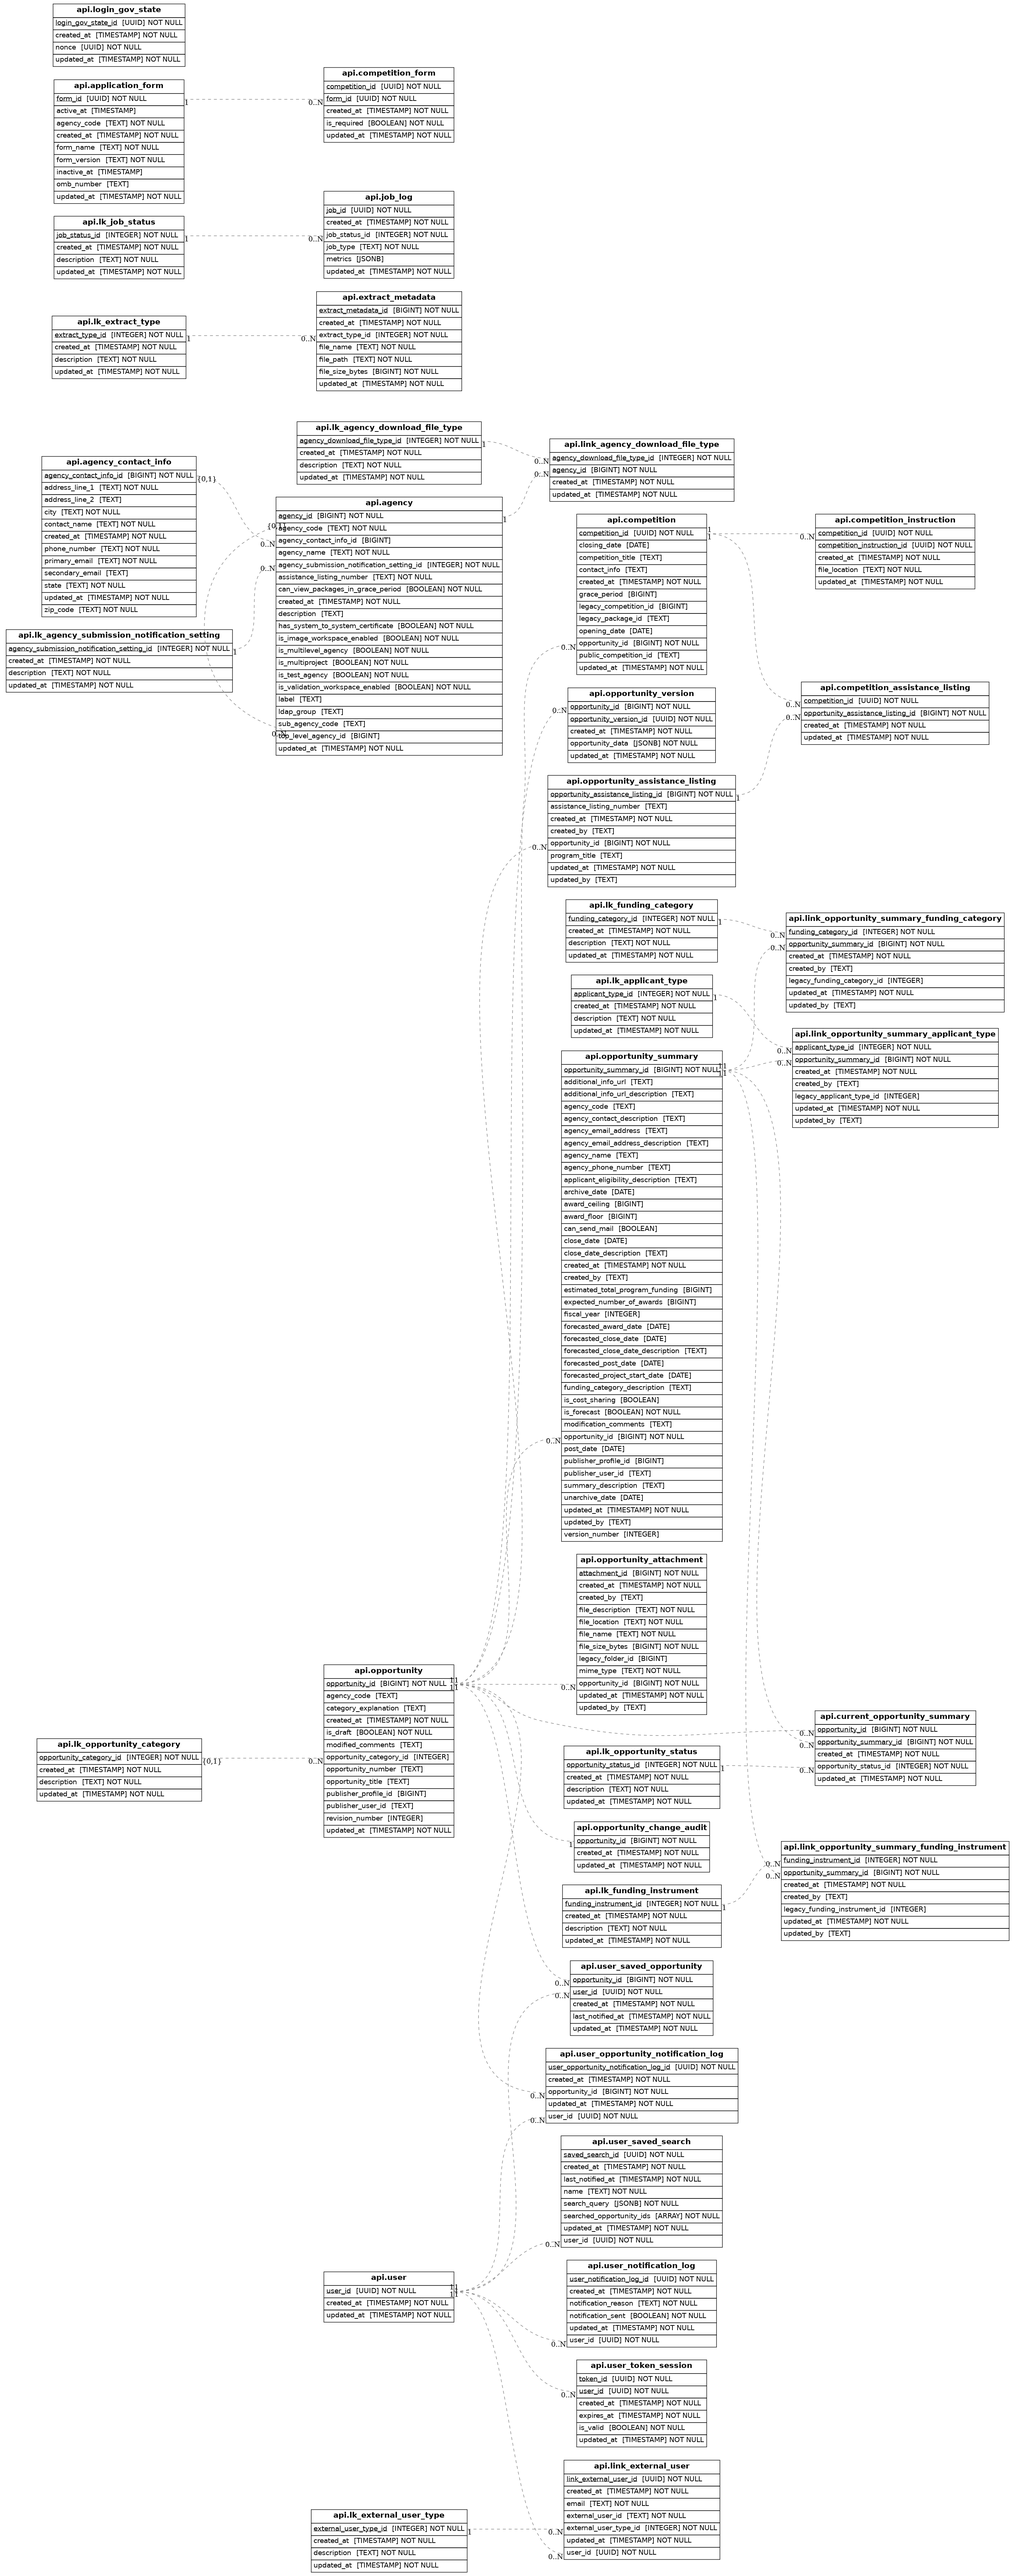
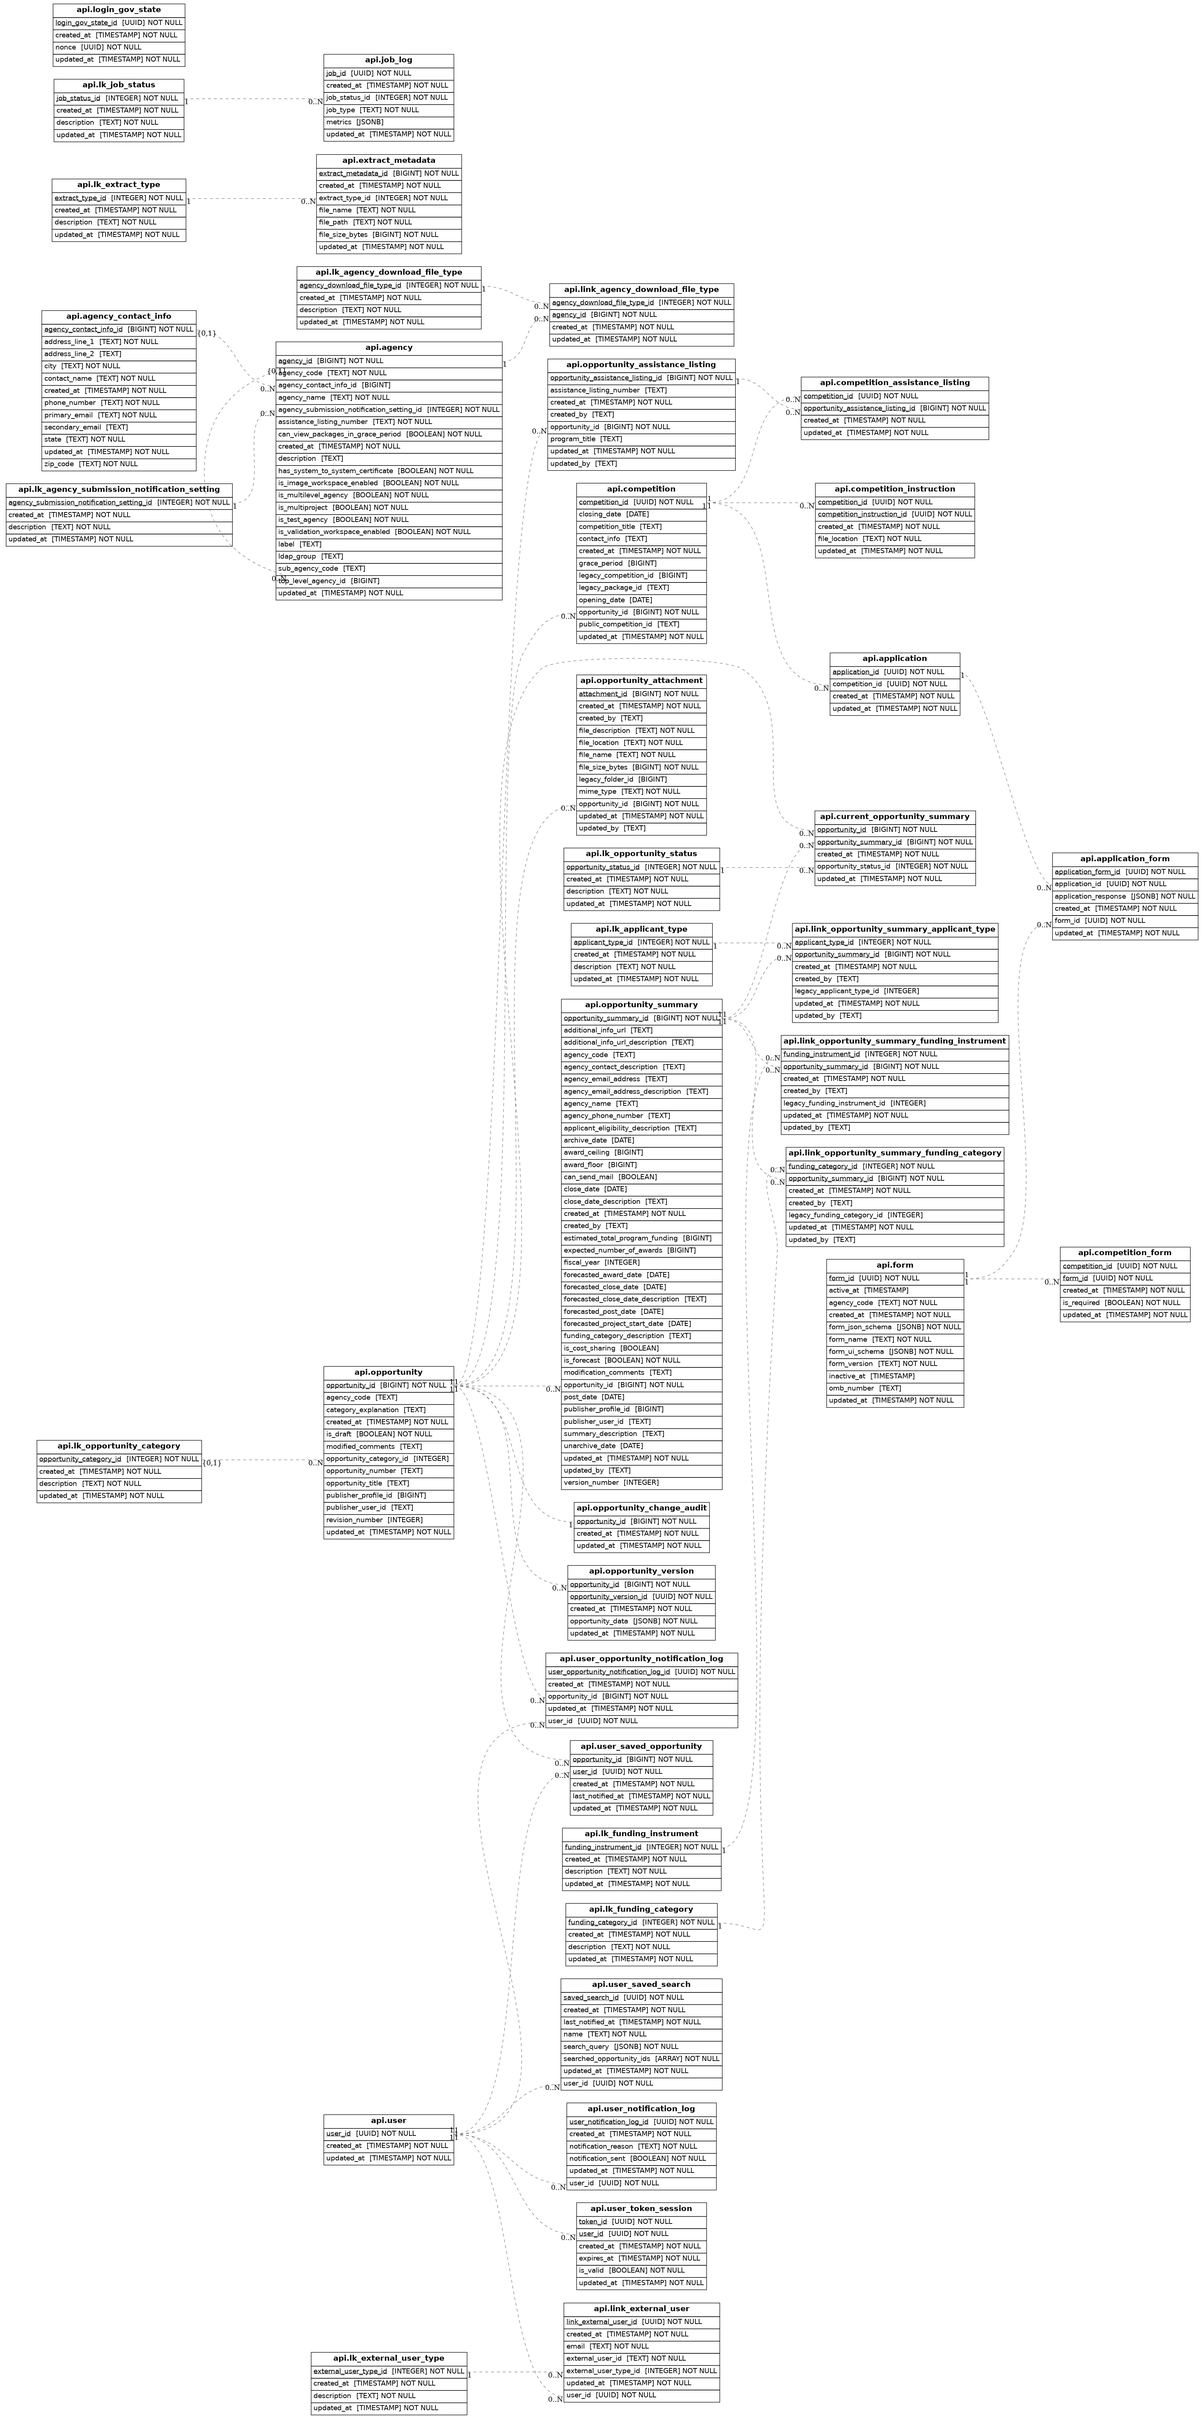
[Issue #4167] Setup rest of application tables (#4179)
## Summary
Fixes #4167

### Time to review: 10 mins

## Changes proposed
- Renamed ApplicationForm to Form and added JSON schema fields
- Created new Application table to represent a user/group applying to a
competition with a foreign key to the competition table
- Created new ApplicationForm table that links applications to forms and
stores responses, with foreign keys to both the Application and Form
tables

## Context for reviewers
We want to make changes to a few of the tables we setup + add a few new
tables to support the apply prototype epic

diff --git a/api/src/db/migrations/versions/2025_03_13_create_new_application_form_table.py b/api/src/db/migrations/versions/2025_03_13_create_new_application_form_table.py
@@ -1,0 +1,132 @@
+"""Create new application form table
+
+Revision ID: 919f7866b393
+Revises: 3793197bdd1b
+Create Date: 2025-03-13 15:58:20.688143
+
+"""
+
+import sqlalchemy as sa
+from alembic import op
+from sqlalchemy.dialects import postgresql
+
+# revision identifiers, used by Alembic.
+revision = "919f7866b393"
+down_revision = "3793197bdd1b"
+branch_labels = None
+depends_on = None
+
+
+def upgrade():
+    # ### commands auto generated by Alembic - please adjust! ###
+    op.create_table(
+        "form",
+        sa.Column("form_id", sa.UUID(), nullable=False),
+        sa.Column("form_name", sa.Text(), nullable=False),
+        sa.Column("form_version", sa.Text(), nullable=False),
+        sa.Column("agency_code", sa.Text(), nullable=False),
+        sa.Column("omb_number", sa.Text(), nullable=True),
+        sa.Column("active_at", sa.TIMESTAMP(timezone=True), nullable=True),
+        sa.Column("inactive_at", sa.TIMESTAMP(timezone=True), nullable=True),
+        sa.Column("form_json_schema", postgresql.JSONB(astext_type=sa.Text()), nullable=False),
+        sa.Column("form_ui_schema", postgresql.JSONB(astext_type=sa.Text()), nullable=False),
+        sa.Column(
+            "created_at",
+            sa.TIMESTAMP(timezone=True),
+            server_default=sa.text("now()"),
+            nullable=False,
+        ),
+        sa.Column(
+            "updated_at",
+            sa.TIMESTAMP(timezone=True),
+            server_default=sa.text("now()"),
+            nullable=False,
+        ),
+        sa.PrimaryKeyConstraint("form_id", name=op.f("form_pkey")),
+        schema="api",
+    )
+    op.create_table(
+        "application",
+        sa.Column("application_id", sa.UUID(), nullable=False),
+        sa.Column("competition_id", sa.UUID(), nullable=False),
+        sa.Column(
+            "created_at",
+            sa.TIMESTAMP(timezone=True),
+            server_default=sa.text("now()"),
+            nullable=False,
+        ),
+        sa.Column(
+            "updated_at",
+            sa.TIMESTAMP(timezone=True),
+            server_default=sa.text("now()"),
+            nullable=False,
+        ),
+        sa.ForeignKeyConstraint(
+            ["competition_id"],
+            ["api.competition.competition_id"],
+            name=op.f("application_competition_id_competition_fkey"),
+        ),
+        sa.PrimaryKeyConstraint("application_id", name=op.f("application_pkey")),
+        schema="api",
+    )
+    op.create_index(
+        op.f("application_competition_id_idx"),
+        "application",
+        ["competition_id"],
+        unique=False,
+        schema="api",
+    )
+    op.create_table(
+        "application_form",
+        sa.Column("application_form_id", sa.UUID(), nullable=False),
+        sa.Column("application_id", sa.UUID(), nullable=False),
+        sa.Column("form_id", sa.UUID(), nullable=False),
+        sa.Column("application_response", postgresql.JSONB(astext_type=sa.Text()), nullable=False),
+        sa.Column(
+            "created_at",
+            sa.TIMESTAMP(timezone=True),
+            server_default=sa.text("now()"),
+            nullable=False,
+        ),
+        sa.Column(
+            "updated_at",
+            sa.TIMESTAMP(timezone=True),
+            server_default=sa.text("now()"),
+            nullable=False,
+        ),
+        sa.ForeignKeyConstraint(
+            ["application_id"],
+            ["api.application.application_id"],
+            name=op.f("application_form_application_id_application_fkey"),
+        ),
+        sa.ForeignKeyConstraint(
+            ["form_id"], ["api.form.form_id"], name=op.f("application_form_form_id_form_fkey")
+        ),
+        sa.PrimaryKeyConstraint("application_form_id", name=op.f("application_form_pkey")),
+        schema="api",
+    )
+    op.create_foreign_key(
+        op.f("competition_form_form_id_form_fkey"),
+        "competition_form",
+        "form",
+        ["form_id"],
+        ["form_id"],
+        source_schema="api",
+        referent_schema="api",
+    )
+    # ### end Alembic commands ###
+
+
+def downgrade():
+    # ### commands auto generated by Alembic - please adjust! ###
+    op.drop_constraint(
+        op.f("competition_form_form_id_form_fkey"),
+        "competition_form",
+        schema="api",
+        type_="foreignkey",
+    )
+    op.drop_table("application_form", schema="api")
+    op.drop_index(op.f("application_competition_id_idx"), table_name="application", schema="api")
+    op.drop_table("application", schema="api")
+    op.drop_table("form", schema="api")
+    # ### end Alembic commands ###

diff --git a/api/src/db/models/competition_models.py b/api/src/db/models/competition_models.py
@@ -2,7 +2,7 @@ import uuid
 from datetime import date, datetime
 
 from sqlalchemy import BigInteger, ForeignKey
-from sqlalchemy.dialects.postgresql import UUID
+from sqlalchemy.dialects.postgresql import JSONB, UUID
 from sqlalchemy.orm import Mapped, mapped_column, relationship
 
 from src.db.models.base import ApiSchemaTable, TimestampMixin
@@ -61,8 +61,8 @@ class CompetitionAssistanceListing(ApiSchemaTable, TimestampMixin):
     )
 
 
-class ApplicationForm(ApiSchemaTable, TimestampMixin):
-    __tablename__ = "application_form"
+class Form(ApiSchemaTable, TimestampMixin):
+    __tablename__ = "form"
 
     form_id: Mapped[uuid.UUID] = mapped_column(UUID, primary_key=True, default=uuid.uuid4)
     form_name: Mapped[str]
@@ -71,14 +71,41 @@ class ApplicationForm(ApiSchemaTable, TimestampMixin):
     omb_number: Mapped[str | None]
     active_at: Mapped[datetime | None]
     inactive_at: Mapped[datetime | None]
+    form_json_schema: Mapped[dict] = mapped_column(JSONB, nullable=False)
+    form_ui_schema: Mapped[dict] = mapped_column(JSONB, nullable=False)
 
 
 class CompetitionForm(ApiSchemaTable, TimestampMixin):
     __tablename__ = "competition_form"
 
     competition_id: Mapped[uuid.UUID] = mapped_column(UUID, primary_key=True, default=uuid.uuid4)
-    form_id: Mapped[uuid.UUID] = mapped_column(
-        UUID, ForeignKey(ApplicationForm.form_id), primary_key=True
-    )
-    application_form: Mapped[ApplicationForm] = relationship(ApplicationForm)
+    form_id: Mapped[uuid.UUID] = mapped_column(UUID, ForeignKey(Form.form_id), primary_key=True)
+    form: Mapped[Form] = relationship(Form)
     is_required: Mapped[bool]
+
+
+class Application(ApiSchemaTable, TimestampMixin):
+    __tablename__ = "application"
+
+    application_id: Mapped[uuid.UUID] = mapped_column(UUID, primary_key=True, default=uuid.uuid4)
+    competition_id: Mapped[uuid.UUID] = mapped_column(
+        UUID, ForeignKey(Competition.competition_id), nullable=False, index=True
+    )
+    competition: Mapped[Competition] = relationship(Competition)
+
+
+class ApplicationForm(ApiSchemaTable, TimestampMixin):
+    __tablename__ = "application_form"
+
+    application_form_id: Mapped[uuid.UUID] = mapped_column(
+        UUID, primary_key=True, default=uuid.uuid4
+    )
+
+    application_id: Mapped[uuid.UUID] = mapped_column(
+        UUID, ForeignKey(Application.application_id), nullable=False
+    )
+    application: Mapped[Application] = relationship(Application)
+
+    form_id: Mapped[uuid.UUID] = mapped_column(UUID, ForeignKey(Form.form_id), nullable=False)
+    form: Mapped[Form] = relationship(Form)
+    application_response: Mapped[dict] = mapped_column(JSONB, nullable=False)

diff --git a/api/src/db/migrations/versions/2025_03_13_drop_old_application_form_table.py b/api/src/db/migrations/versions/2025_03_13_drop_old_application_form_table.py
@@ -1,0 +1,57 @@
+"""Drop old application form table
+
+Revision ID: 3793197bdd1b
+Revises: 5268c5f97814
+Create Date: 2025-03-13 15:54:04.363455
+
+"""
+
+import sqlalchemy as sa
+from alembic import op
+
+# revision identifiers, used by Alembic.
+revision = "3793197bdd1b"
+down_revision = "5268c5f97814"
+branch_labels = None
+depends_on = None
+
+
+def upgrade():
+    # ### commands auto generated by Alembic - please adjust! ###
+    op.drop_constraint(
+        "competition_form_form_id_application_form_fkey",
+        "competition_form",
+        schema="api",
+        type_="foreignkey",
+    )
+    op.drop_table("application_form", schema="api")
+    # ### end Alembic commands ###
+
+
+def downgrade():
+    # ### commands auto generated by Alembic - please adjust! ###
+    op.create_table(
+        "application_form",
+        sa.Column("form_id", sa.UUID(), nullable=False),
+        sa.Column("form_name", sa.Text(), nullable=False),
+        sa.Column("form_version", sa.Text(), nullable=False),
+        sa.Column("agency_code", sa.Text(), nullable=False),
+        sa.Column("omb_number", sa.Text(), nullable=True),
+        sa.Column("active_at", sa.TIMESTAMP(timezone=True), nullable=True),
+        sa.Column("inactive_at", sa.TIMESTAMP(timezone=True), nullable=True),
+        sa.Column(
+            "created_at",
+            sa.TIMESTAMP(timezone=True),
+            server_default=sa.text("now()"),
+            nullable=False,
+        ),
+        sa.Column(
+            "updated_at",
+            sa.TIMESTAMP(timezone=True),
+            server_default=sa.text("now()"),
+            nullable=False,
+        ),
+        sa.PrimaryKeyConstraint("form_id", name=op.f("application_form_pkey")),
+        schema="api",
+    )
+    # ### end Alembic commands ###
